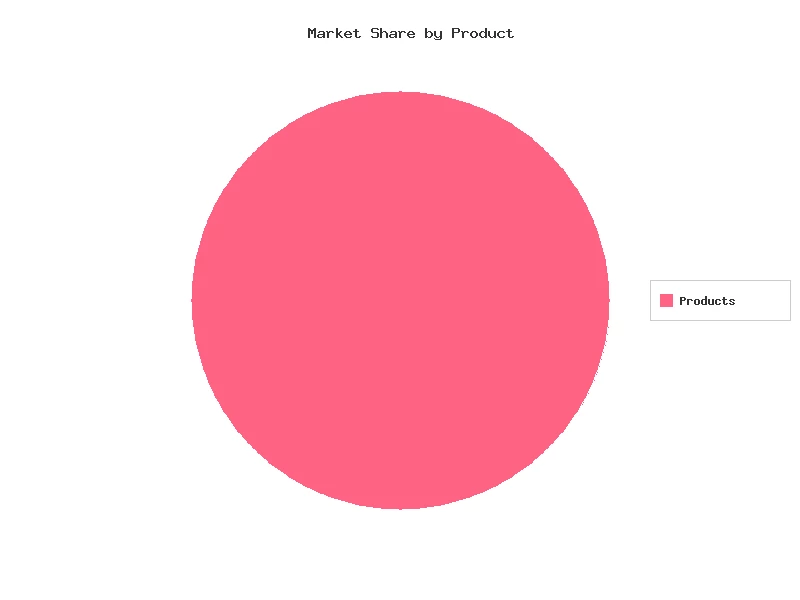
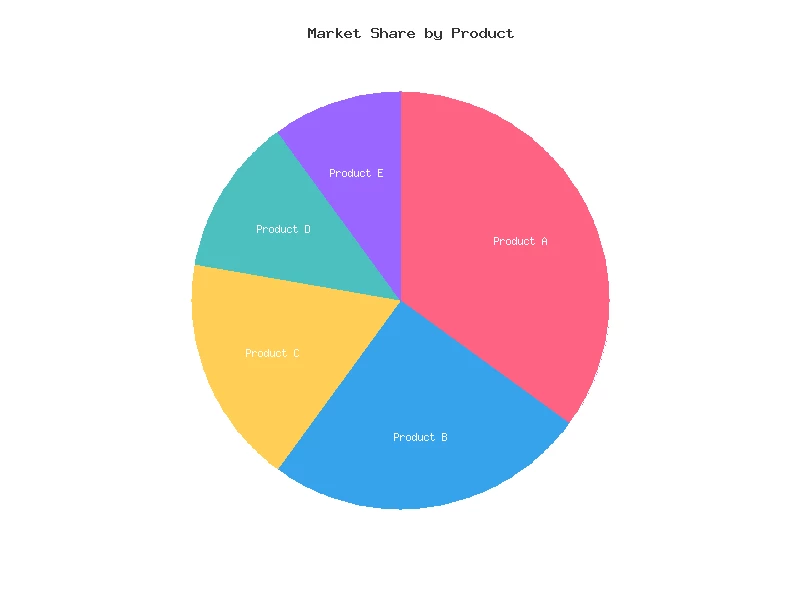
fix pi charts

Changed region(s): [[0.2188, 0.15, 0.7188, 0.87], [0.8125, 0.48, 0.9062, 0.54], [0.625, 0.39, 0.6875, 0.42]]

diff --git a/examples/pie-chart.php b/examples/pie-chart.php
@@ -16,16 +16,17 @@ $chart->setSize(800, 600);
 $chart->setFormat(ImageFormat::SVG);
 $chart->setBackgroundColor('#ffffff');
 $chart->setTitle('Market Share by Product');
-$chart->enableLegend();
+$chart->enableDataLabels(); // Show labels on slices instead of legend
 
-// Add data series (pie chart uses first series only)
+// Add data series (pie chart uses first series only, each point is a slice)
+// Each point can have its own color specified as the 4th parameter
 $series = new DataSeries('Products', [
-    new DataPoint(0.0, 350.0, 'Product A'),
-    new DataPoint(1.0, 250.0, 'Product B'),
-    new DataPoint(2.0, 180.0, 'Product C'),
-    new DataPoint(3.0, 120.0, 'Product D'),
-    new DataPoint(4.0, 100.0, 'Product E'),
-], '#FF6384');
+    new DataPoint(0.0, 350.0, 'Product A', '#FF6384'),  // Red/Pink
+    new DataPoint(1.0, 250.0, 'Product B', '#36A2EB'),  // Blue
+    new DataPoint(2.0, 180.0, 'Product C', '#FFCE56'),  // Yellow
+    new DataPoint(3.0, 120.0, 'Product D', '#4BC0C0'),  // Teal
+    new DataPoint(4.0, 100.0, 'Product E', '#9966FF'),  // Purple
+]);
 
 $chart->addDataSeries($series);
 

diff --git a/src/Renderer/RasterRenderer.php b/src/Renderer/RasterRenderer.php
@@ -454,8 +454,8 @@ final class RasterRenderer implements RendererInterface
             $sliceAngle = ($point->y / $total) * 360.0;
             $endAngle = $currentAngle + $sliceAngle;
 
-            // Use series color if set, otherwise use palette
-            $colorStr = $series->getLineColor() ?? $colors[$index % count($colors)];
+            // Use point color if set, otherwise series color, otherwise palette
+            $colorStr = $point->color ?? $series->getLineColor() ?? $colors[$index % count($colors)];
             $fillColor = $this->allocateColor($colorStr);
 
             // Draw filled arc (pie slice)
@@ -763,7 +763,7 @@ final class RasterRenderer implements RendererInterface
             $yValue = ceil($yMin / $spacing) * $spacing;
 
             while ($yValue <= $yMax) {
-                $y = MathUtil::dataToPixel($yValue, $yMin, $yMax, $this->height - $marginTop - $chartHeight, $marginTop);
+                $y = MathUtil::dataToPixel($yValue, $yMin, $yMax, $this->height - $marginTop, $marginTop);
                 imageline($this->image, $marginLeft, (int) $y, $marginLeft + $chartWidth, (int) $y, $gridColor);
                 $yValue += $spacing;
             }

diff --git a/examples/grid-lines.php b/examples/grid-lines.php
@@ -44,7 +44,7 @@ $chart->setSize(900, 600)
       ->setBackgroundColor('#FFFFFF')
       ->setAxisColor('#333333')
       ->enableGrid()
-      ->setGridColor('#E0E0E0')
+      ->setGridColor('#666666')
       ->addDataSeries($series1)
       ->addDataSeries($series2);
 
@@ -68,7 +68,7 @@ $chart2->setSize(800, 600)
        ->setFormat(ImageFormat::SVG)
        ->setBackgroundColor('#F8F9FA')
        ->enableGrid()
-       ->setGridColor('#CCCCCC')
+       ->setGridColor('#666666')
        ->setGridSpacing(25.0)
        ->addDataSeries($sales);
 

diff --git a/examples/scatter-chart-example.php b/examples/scatter-chart-example.php
@@ -91,7 +91,7 @@ $series3 = new DataSeries('Measurements', [
 $chart3->setFormat(ImageFormat::SVG)
     ->setSize(600, 400)
     ->enableGrid()
-    ->setGridColor('#E0E0E0')
+    ->setGridColor('#666666')
     ->addDataSeries($series3);
 
 file_put_contents(__DIR__ . '/output/scatter-with-grid.svg', $chart3->render());
@@ -166,7 +166,7 @@ $chart6->setFormat(ImageFormat::SVG)
     ->setXAxisRange(0.0, 40.0)
     ->setYAxisRange(0.0, 100.0)
     ->enableGrid()
-    ->setGridColor('#DDDDDD')
+    ->setGridColor('#666666')
     ->setBackgroundColor('#FFFFFF')
     ->setAxisColor('#333333')
     ->enableDataLabels()

diff --git a/src/Renderer/SvgRenderer.php b/src/Renderer/SvgRenderer.php
@@ -743,8 +743,8 @@ final class SvgRenderer implements RendererInterface
             $sliceAngle = ($point->y / $total) * 360.0;
             $endAngle = $currentAngle + $sliceAngle;
 
-            // Use series color if set, otherwise use palette
-            $color = $series->getLineColor() ?? $colors[$index % count($colors)];
+            // Use point color if set, otherwise series color, otherwise palette
+            $color = $point->color ?? $series->getLineColor() ?? $colors[$index % count($colors)];
             $fillColor = ColorParser::parse($color);
 
             // For full circle (single slice), draw a circle

diff --git a/examples/labels.php b/examples/labels.php
@@ -156,7 +156,7 @@ $chart6->setSize(800, 600)
     ->setXAxisLabel('Quarter')
     ->setYAxisLabel('Cost ($1000s)')
     ->enableGrid()
-    ->setGridColor('#E0E0E0')
+    ->setGridColor('#666666')
     ->enableDataLabels()
     ->addDataSeries($costs);
 

diff --git a/src/Data/DataPoint.php b/src/Data/DataPoint.php
@@ -17,11 +17,13 @@ final readonly class DataPoint
      * @param float $x X-axis value
      * @param float $y Y-axis value
      * @param string|null $label Optional label for this point
+     * @param string|null $color Optional color for this point (hex format like '#FF6384')
      */
     public function __construct(
         public float $x,
         public float $y,
         public ?string $label = null,
+        public ?string $color = null,
     ) {
     }
 }

diff --git a/tests/Unit/Chart/ChartTest.php b/tests/Unit/Chart/ChartTest.php
@@ -14,6 +14,8 @@ use PHPUnit\Framework\TestCase;
 
 /**
  * Unit tests for Chart construction and validation.
+ *
+ * @covers \Codryn\PHPFastChart\Chart\Chart
  */
 final class ChartTest extends TestCase
 {

diff --git a/tests/Unit/Renderer/ChartRenderer/PieChartRendererTest.php b/tests/Unit/Renderer/ChartRenderer/PieChartRendererTest.php
@@ -11,6 +11,8 @@ use PHPUnit\Framework\TestCase;
  *
  * Note: Pie chart rendering is implemented directly in SvgRenderer
  * rather than in a separate PieChartRenderer class.
+ *
+ * @covers \Codryn\PHPFastChart\Chart\ChartType
  */
 final class PieChartRendererTest extends TestCase
 {

diff --git a/tests/Unit/Renderer/ChartRenderer/RadarChartRendererTest.php b/tests/Unit/Renderer/ChartRenderer/RadarChartRendererTest.php
@@ -11,6 +11,8 @@ use PHPUnit\Framework\TestCase;
  *
  * Note: Radar chart rendering is implemented directly in SvgRenderer
  * rather than in a separate RadarChartRenderer class.
+ *
+ * @covers \Codryn\PHPFastChart\Chart\ChartType
  */
 final class RadarChartRendererTest extends TestCase
 {

diff --git a/tests/Unit/Renderer/RasterRendererTest.php b/tests/Unit/Renderer/RasterRendererTest.php
@@ -18,6 +18,8 @@ use PHPUnit\Framework\TestCase;
 
 /**
  * Unit tests for RasterRenderer (GD-based PNG/WEBP renderer).
+ *
+ * @covers \Codryn\PHPFastChart\Renderer\RasterRenderer
  */
 final class RasterRendererTest extends TestCase
 {